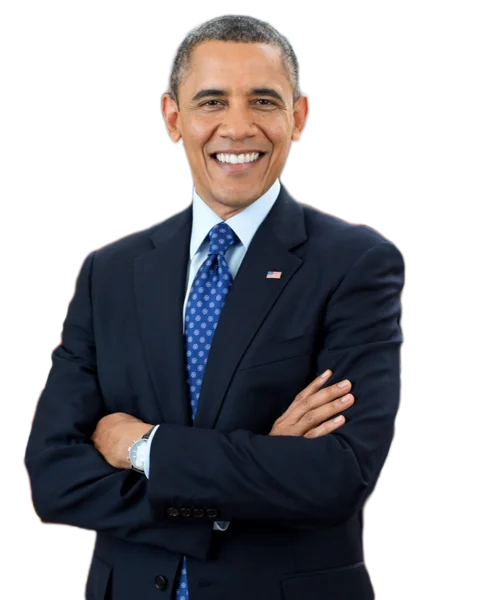
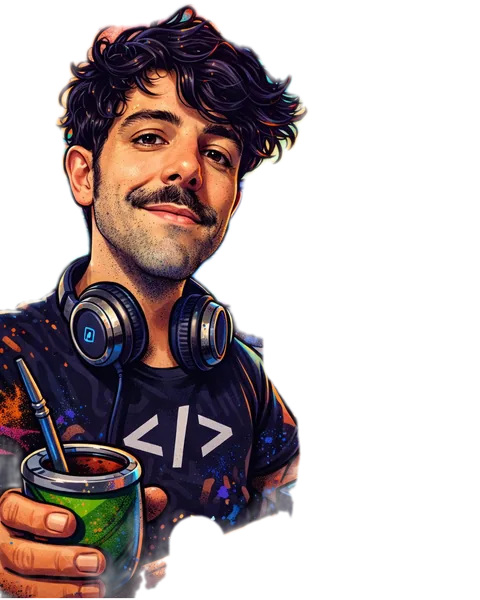
feat(home): hero con la ilustración propia del PO recortada con el editor (GROW-25b)

diff --git a/public/en/index.html b/public/en/index.html
@@ -97,11 +97,11 @@
           <a href="/editor/" class="lp-hero-visual" aria-label="Open the editor and drop your photo">
             <div class="lp-ba">
               <figure class="lp-ba-pane">
-                <img src="/media/hero-antes.jpg" width="480" height="600" fetchpriority="high" decoding="async" alt="Portrait of a man in a suit in front of flags and curtains, original photo with its background" />
+                <img src="/media/hero-antes.jpg" width="480" height="600" fetchpriority="high" decoding="async" alt="Illustration of a person with headphones around the neck holding a mate gourd, over a very busy background of colors and screens" />
                 <figcaption class="lp-swatch-tag lp-swatch-tag-l">Original</figcaption>
               </figure>
               <figure class="lp-ba-pane lp-ba-cut">
-                <img src="/media/hero-despues.webp" width="480" height="600" decoding="async" alt="The same portrait cut out with no background, over a checkerboard that shows transparency" />
+                <img src="/media/hero-despues.webp" width="480" height="600" decoding="async" alt="The same illustration cut out with no background, over a checkerboard that shows transparency" />
                 <figcaption class="lp-swatch-tag lp-swatch-tag-l">No background</figcaption>
               </figure>
             </div>

diff --git a/index.html b/index.html
@@ -111,11 +111,11 @@
           <a href="/editor/" class="lp-hero-visual" aria-label="Abrir el editor y soltar tu foto">
             <div class="lp-ba">
               <figure class="lp-ba-pane">
-                <img src="/media/hero-antes.jpg" width="480" height="600" fetchpriority="high" decoding="async" alt="Retrato de un hombre con traje frente a banderas y cortinas, foto original con fondo" />
+                <img src="/media/hero-antes.jpg" width="480" height="600" fetchpriority="high" decoding="async" alt="Ilustración de una persona con auriculares al cuello que sostiene un mate, sobre un fondo muy cargado de colores y pantallas" />
                 <figcaption class="lp-swatch-tag lp-swatch-tag-l">Original</figcaption>
               </figure>
               <figure class="lp-ba-pane lp-ba-cut">
-                <img src="/media/hero-despues.webp" width="480" height="600" decoding="async" alt="El mismo retrato recortado sin fondo, sobre un patrón de cuadros que indica transparencia" />
+                <img src="/media/hero-despues.webp" width="480" height="600" decoding="async" alt="La misma ilustración recortada sin fondo, sobre un patrón de cuadros que indica transparencia" />
                 <figcaption class="lp-swatch-tag lp-swatch-tag-l">Sin fondo</figcaption>
               </figure>
             </div>

diff --git a/public/pt/index.html b/public/pt/index.html
@@ -97,11 +97,11 @@
           <a href="/editor/" class="lp-hero-visual" aria-label="Abrir o editor e soltar sua foto">
             <div class="lp-ba">
               <figure class="lp-ba-pane">
-                <img src="/media/hero-antes.jpg" width="480" height="600" fetchpriority="high" decoding="async" alt="Retrato de um homem de terno diante de bandeiras e cortinas, foto original com o fundo" />
+                <img src="/media/hero-antes.jpg" width="480" height="600" fetchpriority="high" decoding="async" alt="Ilustração de uma pessoa com fones de ouvido no pescoço segurando uma cuia de mate, sobre um fundo muito carregado de cores e telas" />
                 <figcaption class="lp-swatch-tag lp-swatch-tag-l">Original</figcaption>
               </figure>
               <figure class="lp-ba-pane lp-ba-cut">
-                <img src="/media/hero-despues.webp" width="480" height="600" decoding="async" alt="O mesmo retrato recortado sem fundo, sobre um xadrez que indica transparência" />
+                <img src="/media/hero-despues.webp" width="480" height="600" decoding="async" alt="A mesma ilustração recortada sem fundo, sobre um xadrez que indica transparência" />
                 <figcaption class="lp-swatch-tag lp-swatch-tag-l">Sem fundo</figcaption>
               </figure>
             </div>
